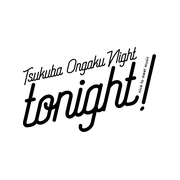
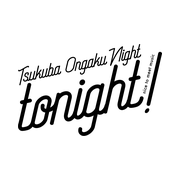
Add files via upload

Changed region(s): [[0.0833, 0.25, 0.9167, 0.7778]]

diff --git a/public/visitor/index.html b/public/visitor/index.html
@@ -14,16 +14,16 @@
   <link rel="apple-touch-icon" sizes="180x180" href="apple-touch-icon.png">
   <link rel="icon" type="image/png" sizes="192x192" href="icon-192.png">
   
-  <link rel="stylesheet" href="style.css?v=v66-tonight-brand">
+  <link rel="stylesheet" href="style.css?v=v67-tonight-hover">
 </head>
 <body>
   <header class="topbar">
     <button id="backBtn" class="back-btn" type="button" aria-label="戻る" hidden>‹</button>
-    <a class="brand" href="#home" aria-label="tonight! ホーム"><img src="../TMPlogo.png" alt="TSUKUBA MUSIC PROJECT"><span>tonight!</span></a>
+    <a class="brand" href="#home" aria-label="tonight! ホーム"><img src="tonight-wordmark.png" alt="tonight!"></a>
     <div id="headerNow" class="header-now" hidden aria-live="polite"></div>
     <div class="top-actions"><button class="notification-top" id="notificationBtn" type="button" aria-label="通知" title="通知"><svg viewBox="0 0 24 24" aria-hidden="true"><path d="M18 9a6 6 0 0 0-12 0c0 7-3 7-3 9h18c0-2-3-2-3-9M10 21h4"/></svg><span id="notificationBadge" hidden></span></button><button class="event-switch-top" id="eventSwitchTop" type="button">イベント選択</button><button class="share-top" id="shareBtn" type="button" aria-label="共有">↗</button></div>
   </header>
-  <main id="app" aria-live="polite"><div class="loading"><img src="../TMPlogo.png" alt=""><p>イベント情報を読み込んでいます…</p></div></main>
+  <main id="app" aria-live="polite"><div class="loading"><img src="tonight-wordmark.png" alt="tonight!"><p>イベント情報を読み込んでいます…</p></div></main>
   <nav class="bottom-nav" aria-label="メインメニュー">
     <button data-page="home" class="active"><span>⌂</span><small>ホーム</small></button>
     <button data-page="schedule"><span>▤</span><small>タイムテーブル</small></button>
@@ -32,7 +32,7 @@
     <button data-page="photos"><span class="nav-icon" aria-hidden="true"><svg viewBox="0 0 24 24"><path d="M3 7.5h4l1.5-2h7l1.5 2h4v12H3z"/><circle cx="12" cy="13.5" r="4"/></svg></span><small>フォト</small></button>
   </nav>
   <div id="modalRoot"></div>
-  <script src="app.js?v=v66-tonight-brand"></script>
+  <script src="app.js?v=v67-tonight-hover"></script>
   <script>if('serviceWorker' in navigator) addEventListener('load',()=>navigator.serviceWorker.register('./sw.js').catch(()=>{}));</script>
 </body>
 </html>

diff --git a/public/visitor/style.css b/public/visitor/style.css
@@ -775,3 +775,18 @@ html,body{
 
 /* v64: centered notification dialogs and Apple-like settings rows */
 .notification-setting-row{display:flex;align-items:center;justify-content:space-between;gap:14px;padding:15px 0;border-top:1px solid var(--border)}.notification-setting-row p{margin:5px 0 0;font-size:12px;color:var(--sub);line-height:1.5}.notification-setting-row .pill{flex:0 0 auto}
+
+
+/* v67: tonight! wordmark header and restrained desktop hover feedback */
+.brand{gap:0!important;min-width:0}
+.brand img{display:block;width:142px!important;height:42px!important;max-width:min(38vw,142px);object-fit:contain;object-position:left center}
+.loading img{width:min(230px,68vw)!important;height:auto!important;max-height:105px;object-fit:contain}
+.btn:not(.secondary):not(.blue),.btn.blue,.btn:not(.secondary):not(.blue):hover,.btn.blue:hover{background:#0071e3!important;border-color:#0071e3!important;color:#fff!important;filter:none!important;opacity:1!important}
+.btn{transition:transform .18s cubic-bezier(.2,.8,.2,1),box-shadow .18s ease!important}
+@media (hover:hover) and (pointer:fine){
+  .btn:not(:disabled):hover{transform:translateY(-2px);box-shadow:0 7px 18px rgba(0,0,0,.12)!important}
+  .btn.blue:hover,.btn:not(.secondary):not(.blue):hover{background:#0071e3!important;box-shadow:0 7px 18px rgba(0,113,227,.22)!important}
+  .quick:hover,.event-tile:hover,.event-select-card:hover,.performer button:hover,.notification-top:hover,.event-switch-top:hover,.share-top:hover{transform:translateY(-2px);box-shadow:0 8px 22px rgba(0,0,0,.10)!important}
+  .bottom-nav button:hover{color:#0071e3!important}
+}
+@media (hover:none){.btn:hover,.quick:hover,.event-tile:hover,.event-select-card:hover{transform:none!important;box-shadow:var(--shadow)!important}}

diff --git a/public/style.css b/public/style.css
@@ -4309,3 +4309,9 @@ button:focus-visible,.btn:focus-visible,input:focus-visible,select:focus-visible
 .event-card.compact-event.has-flyer:before{z-index:0}
 /* Keep the blue tone steady on hover; retain the existing subtle lift. */
 .btn-primary:hover,.primary-button:hover,.button-primary:hover,button.primary:hover,button.is-primary:hover,.cashier-confirm:hover:not(:disabled),.confirm-button:hover,.submit-button:hover{background:#0071e3!important;border-color:#0071e3!important;filter:none!important;opacity:1!important}
+
+
+/* v67: keep admin primary blue visually stable while retaining the subtle lift */
+.btn-primary,.btn-primary:hover,.primary-button,.primary-button:hover,.button-primary,.button-primary:hover,button.primary,button.primary:hover,button.is-primary,button.is-primary:hover,.cashier-confirm,.cashier-confirm:hover:not(:disabled),.confirm-button,.confirm-button:hover,.submit-button,.submit-button:hover{background:linear-gradient(180deg,#1684ed,#0071e3)!important;background-color:#0071e3!important;border-color:#0071e3!important;color:#fff!important;filter:none!important;opacity:1!important}
+.btn-primary,.primary-button,.button-primary,button.primary,button.is-primary,.cashier-confirm,.confirm-button,.submit-button{transition:transform .16s ease,box-shadow .18s ease!important}
+.btn-primary:hover,.primary-button:hover,.button-primary:hover,button.primary:hover,button.is-primary:hover,.cashier-confirm:hover:not(:disabled),.confirm-button:hover,.submit-button:hover{transform:translateY(-2px);box-shadow:0 7px 18px rgba(0,113,227,.22)!important}

diff --git a/public/index.html b/public/index.html
@@ -9,7 +9,7 @@
   <meta name="theme-color" content="#f5f5f7">
   <meta name="apple-mobile-web-app-title" content="tonight!管理用">
   <title>tonight!管理用</title>
-  <link rel="stylesheet" href="style.css?v=v66-tonight-brand">
+  <link rel="stylesheet" href="style.css?v=v67-tonight-hover">
   <link rel="manifest" href="manifest.json">
   <link rel="apple-touch-icon" href="icon-192.png">
   <meta name="apple-mobile-web-app-capable" content="yes">

diff --git a/public/visitor/sw.js b/public/visitor/sw.js
@@ -1,5 +1,5 @@
 // ネットワーク優先。通信できない時だけ保存済みの画面を表示する（/api は対象外）
-const C = 'tonight-v66';
+const C = 'tonight-v67';
 
 self.addEventListener('install', event => {
   event.waitUntil(self.skipWaiting());
